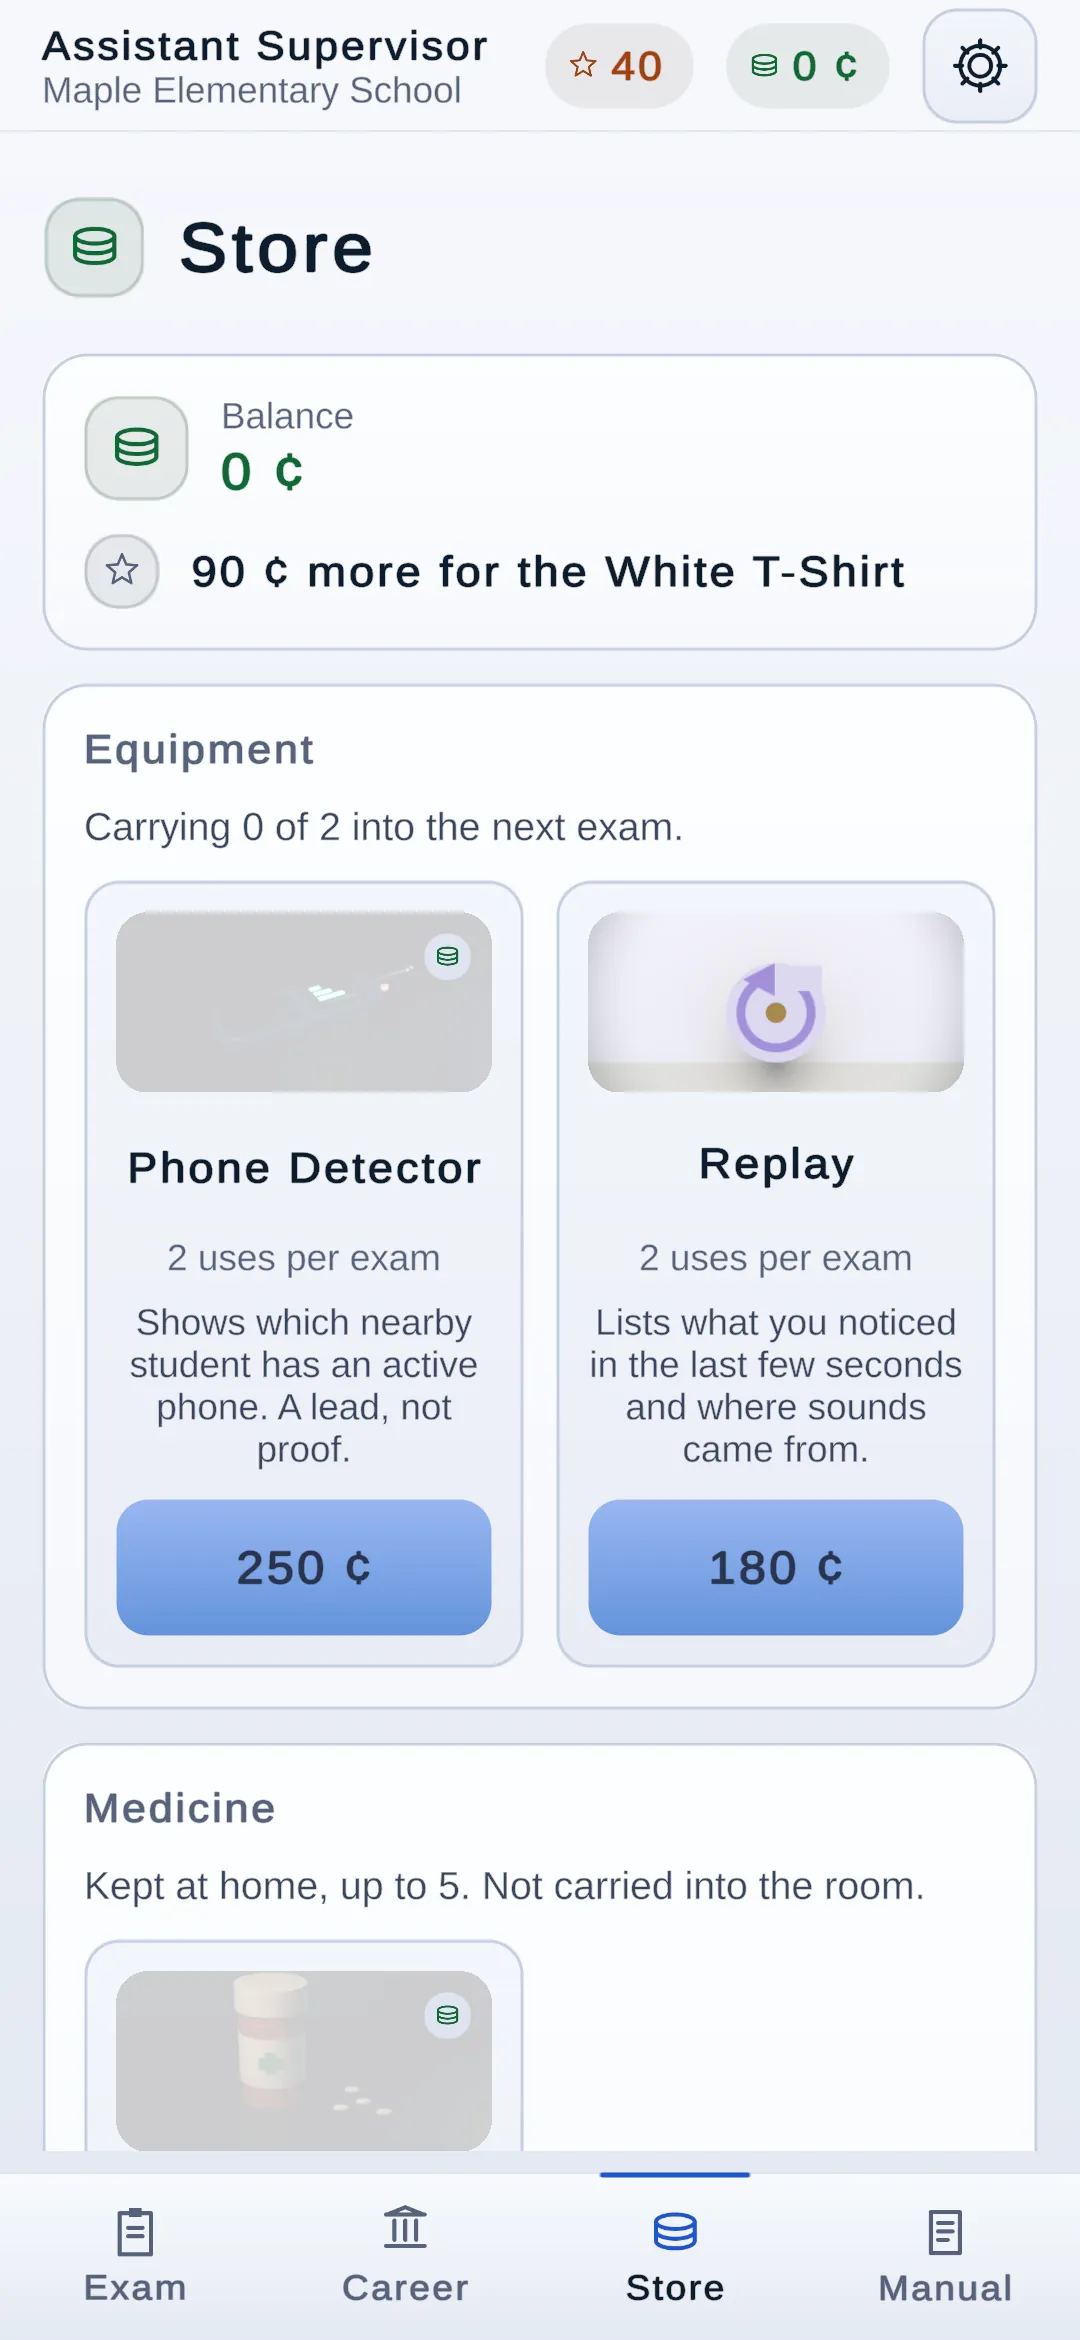
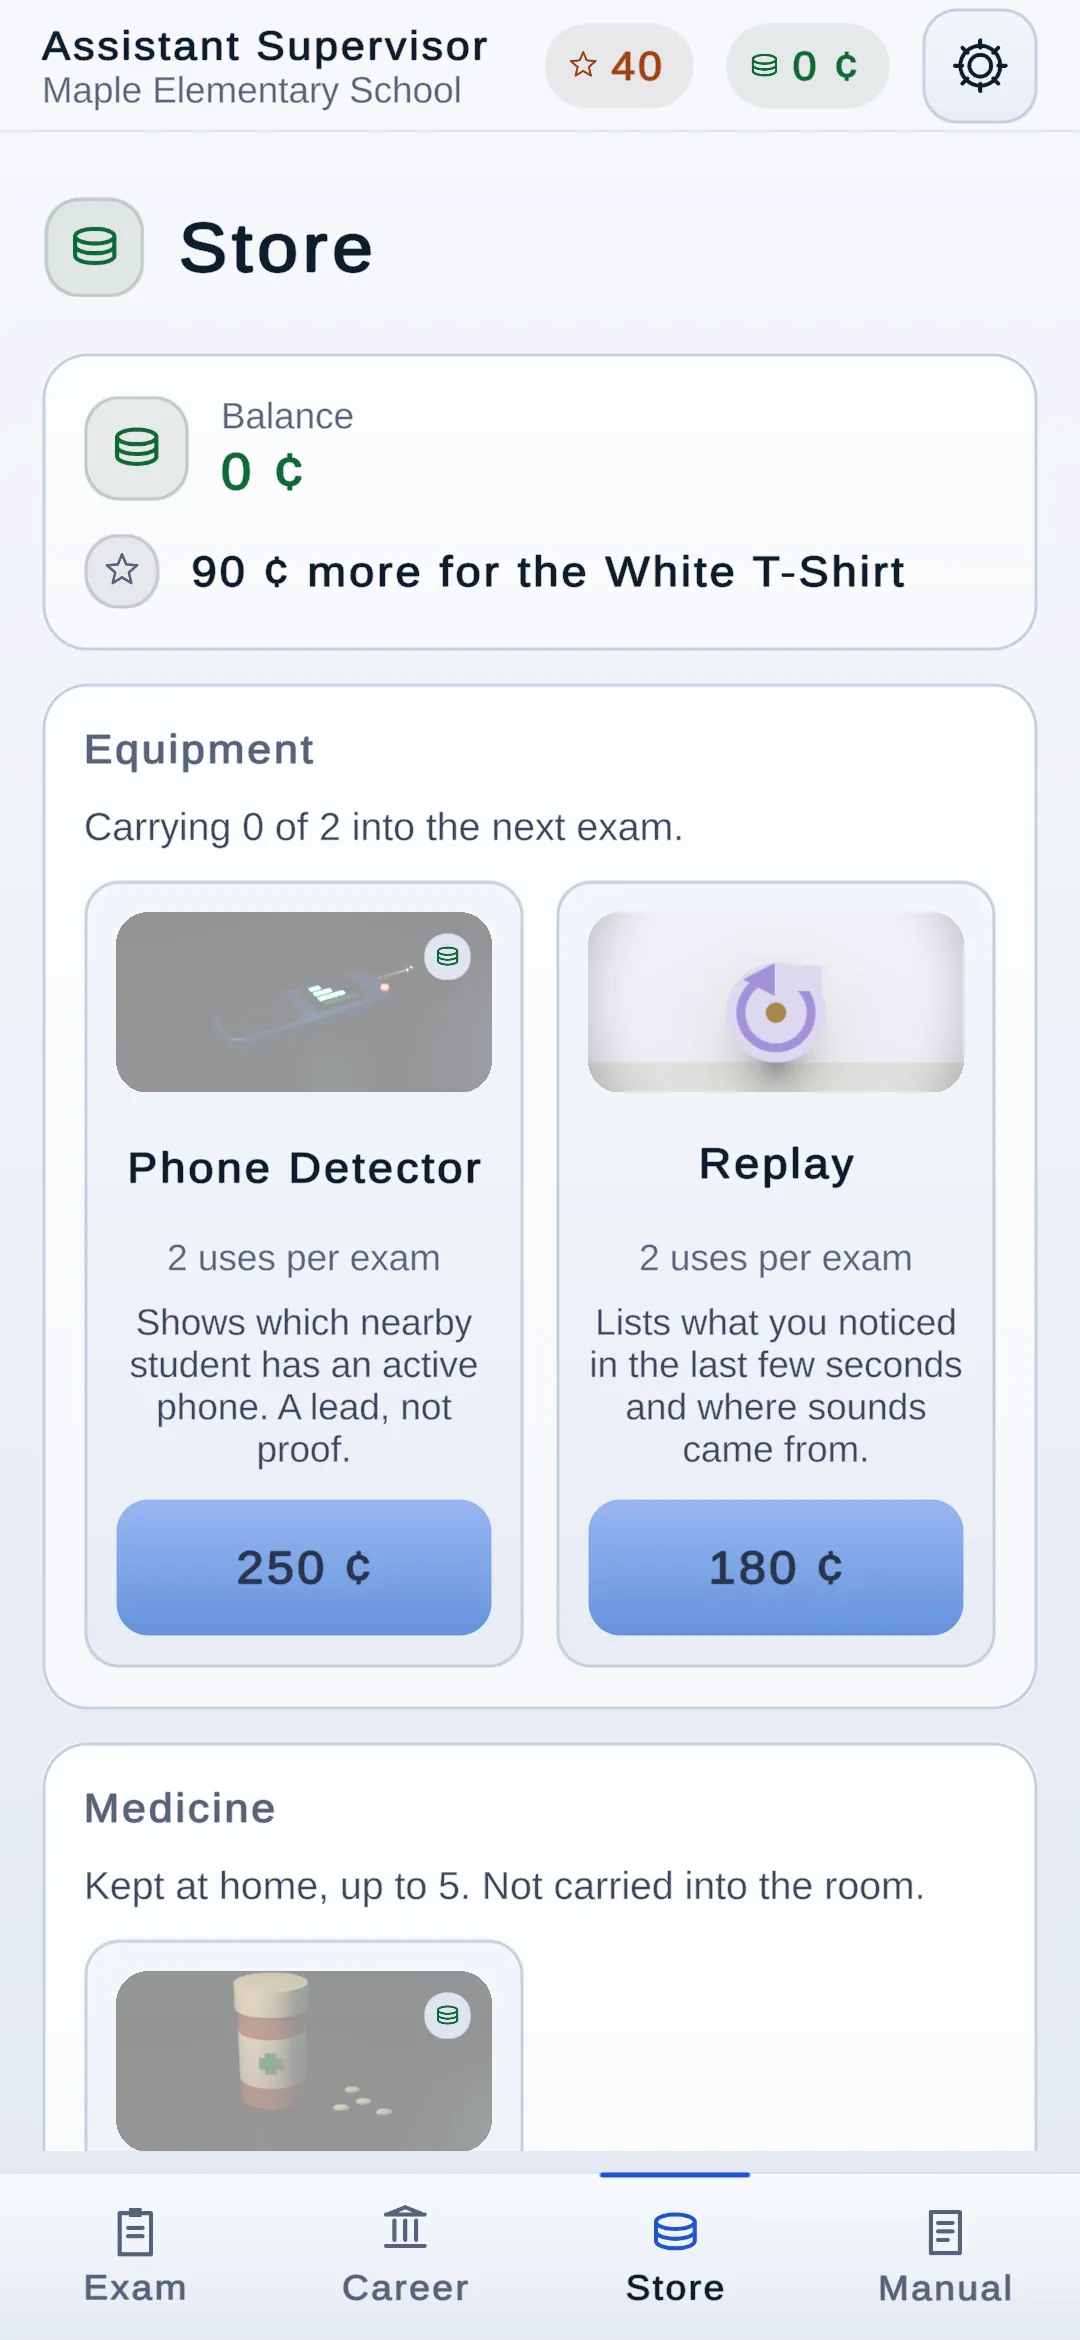
Light Theme: the Store's not-owned veil at 30% in Light, new Store and Wardrobe frames

Changed region(s): [[0.0917, 0.8423, 0.4583, 0.9359], [0.0917, 0.3744, 0.4583, 0.4679]]

diff --git a/light-theme/index.html b/light-theme/index.html
@@ -67,6 +67,10 @@ td.num { font-variant-numeric: tabular-nums; text-align: right; }
 .tag.fix { background: var(--fix-soft); color: var(--fix); }
 .tag.bad { background: var(--bad-soft); color: var(--bad); }
 .note { background: var(--accent-soft); border-radius: 10px; padding: 14px 16px; display: grid; gap: 6px; max-width: 80ch; }
+.pair { display: grid; grid-template-columns: repeat(auto-fit, minmax(min(100%, 340px), 1fr)); gap: 16px; }
+.pair figure { margin: 0; display: grid; gap: 6px; background: var(--surface); border: 1px solid var(--line); border-radius: 10px; padding: 12px; }
+.pair figcaption { font-size: 0.85rem; color: var(--muted); }
+.pair figcaption b { color: var(--ink); font-weight: 600; display: block; }
 .gallery { display: grid; grid-template-columns: repeat(auto-fill, minmax(min(100%, 340px), 1fr)); gap: 16px; }
 .shotpair { margin: 0; display: grid; gap: 8px; align-content: start; background: var(--surface); border: 1px solid var(--line); border-radius: 10px; padding: 12px; }
 .shotpair figcaption { display: flex; flex-wrap: wrap; gap: 8px; align-items: center; }
@@ -118,8 +122,8 @@ td.num { font-variant-numeric: tabular-nums; text-align: right; }
 <tr><td>Exam HUD</td><td><span class="tag ok">Pass</span></td><td class="wrap"></td></tr>
 <tr><td>Admission</td><td><span class="tag fix">Fixed</span></td><td class="wrap">Disabled buttons: white on pale tint, now DisabledInk</td></tr>
 <tr><td>Results</td><td><span class="tag fix">Fixed</span></td><td class="wrap">Periwinkle page: ScrimTopTint token</td></tr>
-<tr><td>Store</td><td><span class="tag bad">Problem</span></td><td class="wrap">Not-owned veil washes out tile art (other session). Disabled prices fixed.</td></tr>
-<tr><td>Wardrobe</td><td><span class="tag bad">Problem</span></td><td class="wrap">Same veil. Preview stage background reads a token: fine.</td></tr>
+<tr><td>Store</td><td><span class="tag fix">Fixed</span></td><td class="wrap">Not-owned veil: NotOwnedVeil role, 30% in Light. Disabled prices: DisabledInk</td></tr>
+<tr><td>Wardrobe</td><td><span class="tag fix">Fixed</span></td><td class="wrap">Same veil role. Preview stage background reads a token</td></tr>
 <tr><td>Settings</td><td><span class="tag fix">New</span></td><td class="wrap">Theme row added</td></tr>
 <tr><td>Manual</td><td><span class="tag ok">Pass</span></td><td class="wrap"></td></tr>
     </tbody>
@@ -136,12 +140,13 @@ td.num { font-variant-numeric: tabular-nums; text-align: right; }
 </section>
 
 <section>
-  <h2>For the Store and Wardrobe session</h2>
-  <p>These are in code this pass did not touch (StoreScreen). No token fix in <code>Ui</code> or <code>GameTheme</code> could reach them without changing Dark.</p>
-  <ul class="list">
-    <li><b>The not-owned veil washes the tile art out in Light.</b> <code>StoreScreen.NotOwnedVeil</code> lays <code>Surface</code> at 62% over a render you do not own. On a dark card that dims the art. On a white card it bleaches it nearly to nothing: the Phone Detector, the pills, the hats and the glasses are hard to make out. See <a href="#store-top">Store</a>, <a href="#wardrobe">Wardrobe</a> and <a href="#wardrobe-grid">the grid</a>. A suggestion: give the veil its own role, or a lower strength in a light theme (for example a role that is <code>Surface</code> at 62% in Dark and around 35% in Light), so a light theme can dim without bleaching.</li>
-    <li><b>The three things you asked me to check.</b> The Store and Wardrobe are rebuilt after a theme change, because the router's store key now carries <code>GameTheme.Revision</code>; that edit is in HudRouter, not StoreScreen. <code>SupervisorPreviewStage</code> takes its background from <code>RaisedTop</code> (a token), passed in from StoreScreen, and it matches its card in both themes. The room's colours were checked in a room started in Light: the phone-detector disc reads <code>Primary</code> each frame, the unwell haze keeps the dark theme's value on purpose (it is the room's own dark, and the room does not follow the theme), and the floor row numbers come from the floor colour. All three look right.</li>
-  </ul>
+  <h2>The Store's not-owned veil</h2>
+  <p>A baked shop tile you do not own sits under a veil of the card's surface colour, with a coin mark where an owned item's check would be. Dark has always used 62%, which dims a render on a dark card. On a white card the same 62% bleached the art to almost nothing. The veil is now a theme role, <code>NotOwnedVeil</code>: Dark keeps exactly 0.62, so it is pixel-identical, and Light uses 0.30. That was judged on the Phone Detector, the pills, the hats and the glasses. At 0.35 the Phone Detector was still faint, and at 0.25 the tiles began to look owned. The coin mark reads on top of the veil at 0.30, and the price button still says what it costs.</p>
+  <div class="pair">
+    <figure><a href="img/veil-store-before-after.webp"><img src="img/veil-store-before-after.webp" alt="Store equipment tiles in Light: 62% veil on the left, 30% on the right" loading="lazy" width="1980" height="1000"></a><figcaption><b>Equipment and medicine</b>Left: 62%, as before. Right: 30%, now.</figcaption></figure>
+    <figure><a href="img/veil-grid-before-after.webp"><img src="img/veil-grid-before-after.webp" alt="Wardrobe grid tiles in Light: 62% veil on the left, 30% on the right" loading="lazy" width="1980" height="1000"></a><figcaption><b>Wardrobe grid</b>Left: 62%, as before. Right: 30%, now.</figcaption></figure>
+  </div>
+  <p class="small muted">The Store and Wardrobe session OKed the one StoreScreen change this needed: <code>StoreScreen.NotOwnedVeil</code> now reads the role. Their three checks are fine. The Store redraws after a theme change (the store key carries the theme revision). <code>SupervisorPreviewStage</code> takes its background from the <code>RaisedTop</code> token. In a room started in Light, the phone-detector disc, the unwell haze and the row numbers look right.</p>
 </section>
 
 <section>
@@ -406,8 +411,8 @@ td.num { font-variant-numeric: tabular-nums; text-align: right; }
   <div class="two cap"><span>Dark</span><span>Light</span></div>
 </figure>
 <figure class="shotpair" id="store-top">
-  <figcaption><b>Store</b> <span class="tag bad">Problem</span></figcaption>
-  <p class="small muted">Prices you cannot afford are fixed (slate ink). The not-owned veil over the tile art is the problem: see the other session&#x27;s list.</p>
+  <figcaption><b>Store</b> <span class="tag fix">Fixed</span></figcaption>
+  <p class="small muted">Prices you cannot afford take a slate ink. The not-owned veil over the tile art is lighter in Light (30%, Dark keeps 62%), so the Phone Detector and the pills read.</p>
   <div class="two">
     <a href="img/store-top-dark.webp"><img src="img/store-top-dark.webp" alt="Store in Dark" loading="lazy" width="1080" height="2340"></a>
     <a href="img/store-top-light.webp"><img src="img/store-top-light.webp" alt="Store in Light" loading="lazy" width="1080" height="2340"></a>
@@ -415,8 +420,8 @@ td.num { font-variant-numeric: tabular-nums; text-align: right; }
   <div class="two cap"><span>Dark</span><span>Light</span></div>
 </figure>
 <figure class="shotpair" id="wardrobe">
-  <figcaption><b>Wardrobe</b> <span class="tag bad">Problem</span></figcaption>
-  <p class="small muted">The preview stage reads the RaisedTop token and matches its card. The tile art is washed out by the not-owned veil.</p>
+  <figcaption><b>Wardrobe</b> <span class="tag fix">Fixed</span></figcaption>
+  <p class="small muted">The preview stage reads the RaisedTop token and matches its card. Hats you do not own read through the lighter veil.</p>
   <div class="two">
     <a href="img/wardrobe-dark.webp"><img src="img/wardrobe-dark.webp" alt="Wardrobe in Dark" loading="lazy" width="1080" height="2340"></a>
     <a href="img/wardrobe-light.webp"><img src="img/wardrobe-light.webp" alt="Wardrobe in Light" loading="lazy" width="1080" height="2340"></a>
@@ -424,8 +429,8 @@ td.num { font-variant-numeric: tabular-nums; text-align: right; }
   <div class="two cap"><span>Dark</span><span>Light</span></div>
 </figure>
 <figure class="shotpair" id="wardrobe-grid">
-  <figcaption><b>Wardrobe grid</b> <span class="tag bad">Problem</span></figcaption>
-  
+  <figcaption><b>Wardrobe grid</b> <span class="tag fix">Fixed</span></figcaption>
+  <p class="small muted">Glasses, the lanyard and the crests read; the coin mark still sits clearly on the veil.</p>
   <div class="two">
     <a href="img/wardrobe-grid-dark.webp"><img src="img/wardrobe-grid-dark.webp" alt="Wardrobe grid in Dark" loading="lazy" width="1080" height="2340"></a>
     <a href="img/wardrobe-grid-light.webp"><img src="img/wardrobe-grid-light.webp" alt="Wardrobe grid in Light" loading="lazy" width="1080" height="2340"></a>
